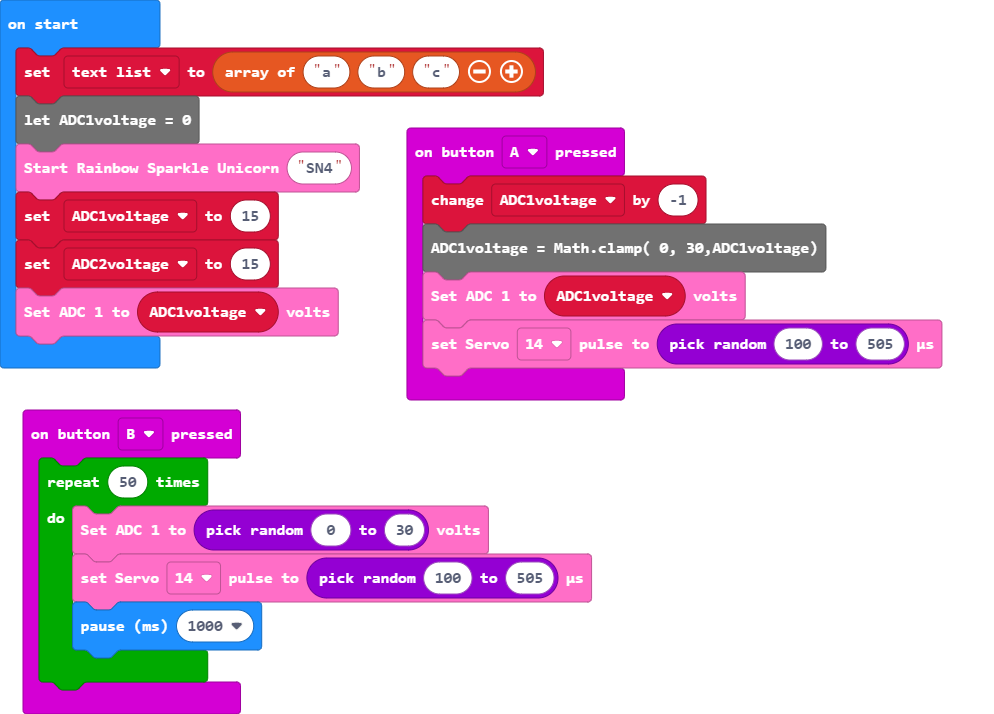
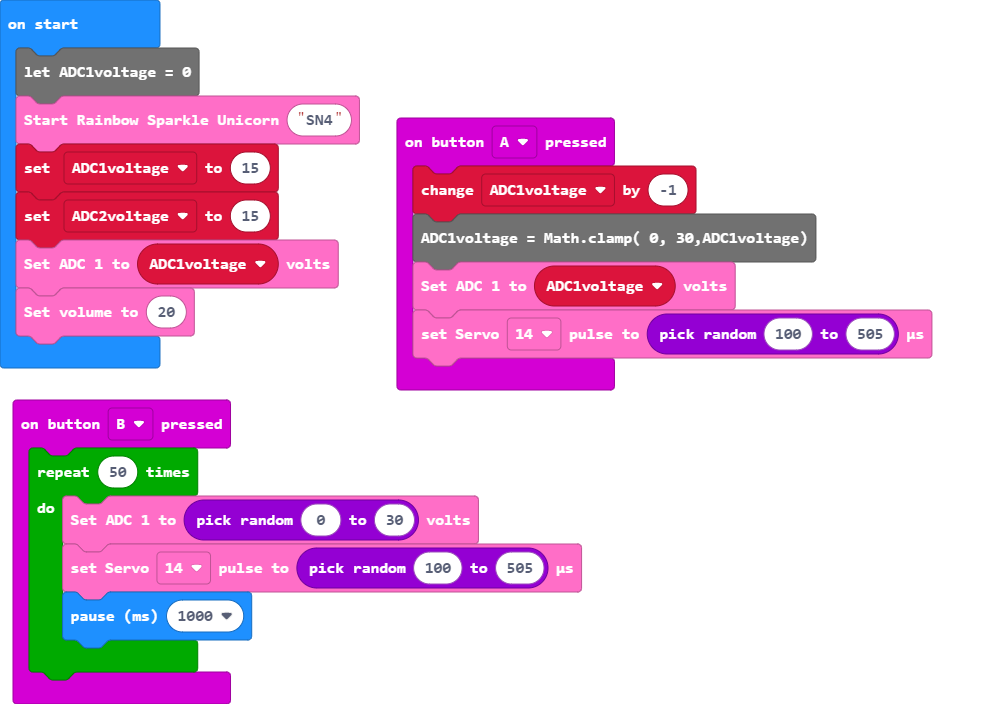
Update pxt.json, main.blocks, main.ts, custom.ts

Changed region(s): [[0.0, 0.0312, 0.9451, 0.5625], [0.0, 0.5625, 0.6098, 1.0], [0.1524, 0.0, 0.1829, 0.0312]]

diff --git a/custom.ts b/custom.ts
@@ -56,7 +56,7 @@ const enum TouchSensor {
     Any = 1 << 30
 }
 
-const enum TouchAction {  
+const enum TouchAction {
     //% block="touched"
     Touched = 0,
     //% block="released"
@@ -97,33 +97,11 @@ namespace RainbowSparkleUnicorn {
             BaudRate.BaudRate115200
         )
 
-        serialNumber = SN        
+        serialNumber = SN
         initialized = true
 
         basic.showIcon(IconNames.Heart)
     }
-
-    /**
-     * TODO: describe your function here
-     * @param n describe parameter here, eg: 5
-     * @param s describe parameter here, eg: "Hello"
-     * @param e describe parameter here
-     */
-    //% block
-    export function foo(n: number, s: string, e: MyEnum): void {
-        // Add code here
-    }
-
-    /**
-     * TODO: describe your function here
-     * @param value describe value here, eg: 5
-     */
-    //% block
-    export function fib(value: number): number {
-        return value <= 1 ? value : fib(value -1) + fib(value - 2);
-    }
-
-
 
     /**
      * Do something when a touch sensor is touched or released.
@@ -142,17 +120,15 @@ namespace RainbowSparkleUnicorn {
         handler: () => void
     ) {
 
-        // initTouchController();
-
         control.onEvent(
             action === TouchAction.Touched
                 ? MICROBIT_RAINBOW_SPARKLE_UNICORN_TOUCH_SENSOR_TOUCHED_ID
                 : MICROBIT_RAINBOW_SPARKLE_UNICORN_TOUCH_SENSOR_RELEASED_ID,
             sensor === TouchSensor.Any ? MICROBIT_EVT_ANY : sensor,
-            () => {    
+            () => {
 
                 //basic.showString(control.eventValue());
-  
+
                 // touchState.eventValue = control.eventValue();
                 handler();
             }
@@ -166,8 +142,8 @@ namespace RainbowSparkleUnicorn {
     //% block="Set ADC 1 to $voltage \\volts"
     //% voltage.min=0 voltage.max=30
     export function ADC1(voltage: number) {
- 
-        voltage = Math.clamp( 0, 30,voltage)
+
+        voltage = Math.clamp(0, 30, voltage)
 
         //Need to resolve 0-30 to 0-254
         let mapped = pins.map(voltage, 0, 30, 0, 254)
@@ -182,74 +158,154 @@ namespace RainbowSparkleUnicorn {
     //% block="Set ADC 2 to $voltage \\volts"
     //% voltage.min=0 voltage.max=30
     export function ADC2(voltage: number) {
- 
-        voltage = Math.clamp( 0, 30,voltage)
-        
+
+        voltage = Math.clamp(0, 30, voltage)
+
         //Need to resolve 0-30 to 0-254
         let mapped = pins.map(voltage, 0, 30, 0, 254)
-        
+
         sendMessage("X2," + mapped)
     }
 
-let sendQueue = [""];
+    let sendQueue = [""];
 
-  function sendMessage(message: string): void {    
-    sendQueue.push(message); 
+    function sendMessage(message: string): void {
+        sendQueue.push(message);
     }
 
 
-    basic.forever(function () {        
-        while(sendQueue.length > 0) {
-       serial.writeLine( sendQueue.pop())  ;   
-   
-         basic.pause(10);
+    basic.forever(function () {
+        while (sendQueue.length > 0) {
+            serial.writeLine(sendQueue.pop());
+
+            basic.pause(10);
         }
-     basic.pause(10);
+        basic.pause(10);
     })
 
-        //% block="set $servo pulse to %micros μs"
-        //% micros.min=0 micros.max=4096
-        //% micros.defl=250
-     export function setPulse(servo: Servo, micros: number) {
-            micros = micros | 0;
-            micros = Math.clamp(0, 4096, micros);       
+    //% block="set $servo pulse to %micros μs"
+    //% micros.min=0 micros.max=4096
+    //% micros.defl=250
+    export function setPulse(servo: Servo, micros: number) {
+        micros = micros | 0;
+        micros = Math.clamp(0, 4096, micros);
 
-            sendMessage("V4," + servo + "," + micros);
-        }
+        sendMessage("V4," + servo + "," + micros);
+    }
 
 
 
     /**
      * Set the volume
-     * @param voltage the touch sensor to be checked, eg: 15
+     * @param volume the touch sensor to be checked, eg: 15
      */
     //% block="Set volume to $volume"
-    //% voltage.min=0 voltage.max=30
-     export function setVolume (volume: number) {
-      sendMessage( "Z1," + volume)
-     }
+    //% volume.min=0 volume.max=30
+    export function setVolume(volume: number) {
+        const clippedVolume = Math.min(Math.max(volume, 0), 30);
+        sendMessage("Z1," + clippedVolume)
+    }
 
-  export function blink (pin: number, timeOn: number, timeOff: number) {
-     let  cmd = "Y1," + pin + "," + timeOn + "," + timeOff
-    serial.writeLine(cmd)
-}
 
-  export function playTrack (num: number) {
-   let cmd = "Z4," + num
-    serial.writeLine(cmd)
-}
+    export function blink(pin: number, timeOn: number, timeOff: number) {
+        let cmd = "Y1," + pin + "," + timeOn + "," + timeOff
+        serial.writeLine(cmd)
+    }
 
-  export function breathe (pin: number, timeOn: number, timeOff: number, rise: number, fall: number) {
-     let  cmd = "Y2," + pin + "," + timeOn + "," + rise + "," + fall
-    serial.writeLine(cmd)
-}
-// input.onButtonPressed(Button.B, function () {
-//     breathe(6, 1000, 1000, 500, 500)
-// })
+    /**
+     * Play a track
+     * @param track the track to play, eg: 1
+     */
+    //% block="Play track $track"
+    //% track.min=0 track.max=2999
+    export function playTrack(track: number) {
+        sendMessage("Z4," + track)
+    }
 
-serial.onDataReceived(serial.delimiters(Delimiters.Hash), function () {
-    basic.showString(serial.readUntil(serial.delimiters(Delimiters.Hash)))
-})
+    /**
+     * Increase the volume
+     */
+    //% block="Up volume"
+    export function VolumeUp() {
+        sendMessage("Z2")
+    }
+
+    /**
+     * Decrease the volume
+     */
+    //% block="Down volume"
+    export function VolumeDown() {
+        sendMessage("Z3")
+    }
+
+    export function breathe(pin: number, timeOn: number, timeOff: number, rise: number, fall: number) {
+        let cmd = "Y2," + pin + "," + timeOn + "," + rise + "," + fall
+        serial.writeLine(cmd)
+    }
+    // input.onButtonPressed(Button.B, function () {
+    //     breathe(6, 1000, 1000, 500, 500)
+    // })
+
+
+    /**
+     * Returns the index of the last MP3 track event.
+     * It could be either a track started or completed event.
+     * This block intended to be used inside of track event handlers.
+     */
+    //% subcategory="MP3"
+    //% blockId="makerbit_mp3_track"
+    //% block="MP3 track"
+    //% weight=39
+    export function mp3Track(): number {
+        return 0; //deviceState ? deviceState.lastTrackEventValue : 1;
+    }
+
+
+    /**
+   * Do something when a MP3 track is completed.
+   * @param handler body code to run when event is raised
+   */
+    //% subcategory="MP3"
+    //% blockId=makerbit_mp3_on_track_completed
+    //% block="on MP3 track completed"
+    //% weight=41
+    export function onMp3TrackCompleted(handler: () => void) {
+        // control.onEvent(
+        //     MICROBIT_MAKERBIT_MP3_TRACK_COMPLETED_ID,
+        //     EventBusValue.MICROBIT_EVT_ANY,
+        //     () => {
+        //         const value = control.eventValue();
+        //         basic.pause(10); // defer call so that the 2nd track completion event can be processed before
+        //         deviceState.lastTrackEventValue = value;
+        //         handler();
+        //     }
+        // );
+    }
+
+    export function increaseVolume() {
+       // return composeSerialCommand(CommandCode.INCREASE_VOLUME, 0x00, 0x00);
+    }
+
+    export function decreaseVolume() {
+       // return composeSerialCommand(CommandCode.DECREASE_VOLUME, 0x00, 0x00);
+    }
+
+    export function repeatTrack(track: number) {
+     //   return composeSerialCommand(CommandCode.REPEAT_TRACK, 0x00, track);
+    }
+
+    export function resume() {
+     //   return composeSerialCommand(CommandCode.RESUME, 0x00, 0x00);
+    }
+
+    export function pause() {
+      //  return composeSerialCommand(CommandCode.PAUSE, 0x00, 0x00);
+    }
+
+
+    serial.onDataReceived(serial.delimiters(Delimiters.Hash), function () {
+        basic.showString(serial.readUntil(serial.delimiters(Delimiters.Hash)))
+    })
 
 
 }

diff --git a/main.ts b/main.ts
@@ -11,9 +11,9 @@ input.onButtonPressed(Button.B, function () {
         basic.pause(1000)
     }
 })
-
 let ADC1voltage = 0
 RainbowSparkleUnicorn.start("SN4")
 ADC1voltage = 15
 let ADC2voltage = 15
 RainbowSparkleUnicorn.ADC1(ADC1voltage)
+RainbowSparkleUnicorn.setVolume(20)
